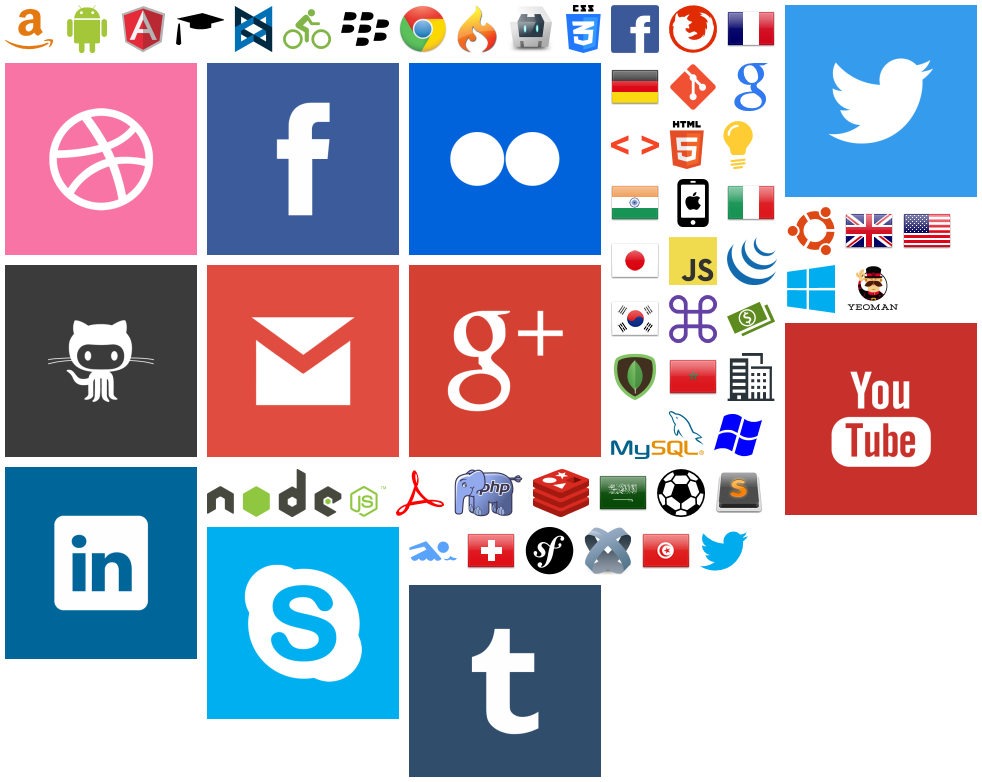
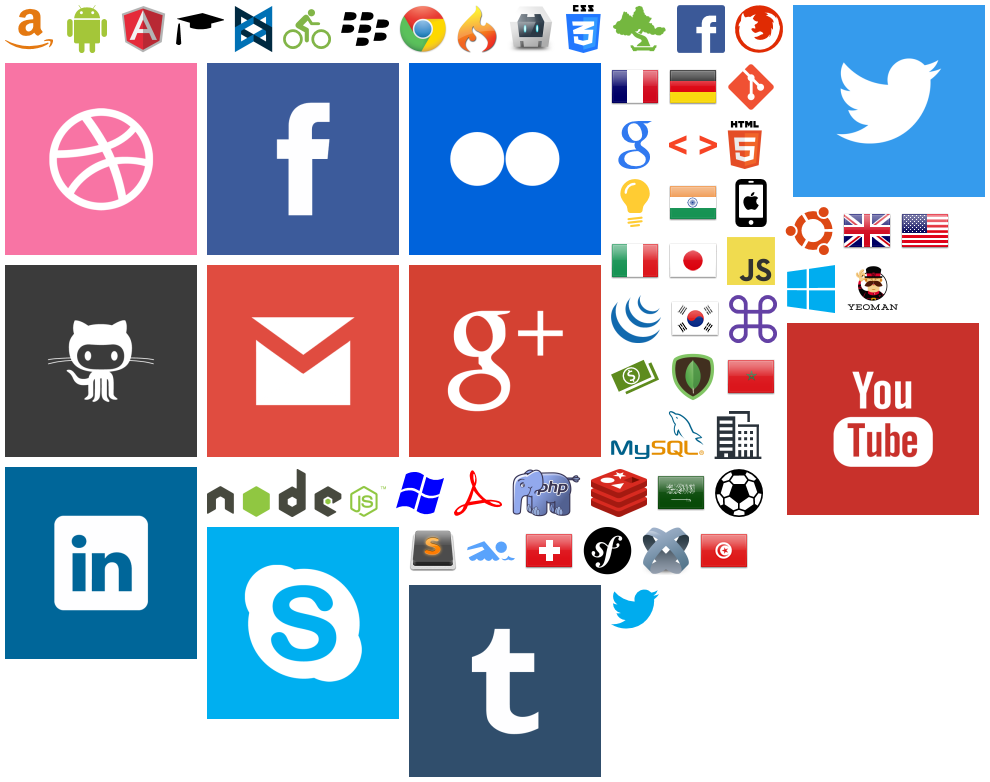
Add presentation of Open Data for politics

diff --git a/css/main.css b/css/main.css
@@ -44,6 +44,7 @@
 	background-repeat: no-repeat;
 }
 
+
 .icon.amazon {
 	width: 48px;
 	height: 48px;
@@ -116,10 +117,16 @@
 	background-position: -5px -63px;
 }
 
+.icon.elasticsearch {
+	width: 56px;
+	height: 48px;
+	background-position: -611px -5px;
+}
+
 .icon.facebook {
 	width: 48px;
 	height: 48px;
-	background-position: -611px -5px;
+	background-position: -677px -5px;
 }
 
 .icon.facebook-ntw {
@@ -131,7 +138,7 @@
 .icon.firefox {
 	width: 48px;
 	height: 48px;
-	background-position: -669px -5px;
+	background-position: -735px -5px;
 }
 
 .icon.flickr-ntw {
@@ -143,19 +150,19 @@
 .icon.france {
 	width: 48px;
 	height: 48px;
-	background-position: -727px -5px;
+	background-position: -611px -63px;
 }
 
 .icon.german {
 	width: 48px;
 	height: 48px;
-	background-position: -611px -63px;
+	background-position: -669px -63px;
 }
 
 .icon.git {
 	width: 48px;
 	height: 48px;
-	background-position: -669px -63px;
+	background-position: -727px -63px;
 }
 
 .icon.github-ntw {
@@ -173,7 +180,7 @@
 .icon.google {
 	width: 48px;
 	height: 48px;
-	background-position: -727px -63px;
+	background-position: -611px -121px;
 }
 
 .icon.google-plus-ntw {
@@ -185,61 +192,61 @@
 .icon.html {
 	width: 48px;
 	height: 48px;
-	background-position: -611px -121px;
+	background-position: -669px -121px;
 }
 
 .icon.html5 {
 	width: 35px;
 	height: 48px;
-	background-position: -669px -121px;
+	background-position: -727px -121px;
 }
 
 .icon.idea {
 	width: 48px;
 	height: 48px;
-	background-position: -714px -121px;
+	background-position: -611px -179px;
 }
 
 .icon.india {
 	width: 48px;
 	height: 48px;
-	background-position: -611px -179px;
+	background-position: -669px -179px;
 }
 
 .icon.iphone {
 	width: 48px;
 	height: 48px;
-	background-position: -669px -179px;
+	background-position: -727px -179px;
 }
 
 .icon.italy {
 	width: 48px;
 	height: 48px;
-	background-position: -727px -179px;
+	background-position: -611px -237px;
 }
 
 .icon.japan {
 	width: 48px;
 	height: 48px;
-	background-position: -611px -237px;
+	background-position: -669px -237px;
 }
 
 .icon.javascript {
 	width: 48px;
 	height: 48px;
-	background-position: -669px -237px;
+	background-position: -727px -237px;
 }
 
 .icon.jquery {
 	width: 50px;
 	height: 48px;
-	background-position: -727px -237px;
+	background-position: -611px -295px;
 }
 
 .icon.korea {
 	width: 48px;
 	height: 48px;
-	background-position: -611px -295px;
+	background-position: -671px -295px;
 }
 
 .icon.linkedin-ntw {
@@ -251,25 +258,25 @@
 .icon.mac-os {
 	width: 48px;
 	height: 48px;
-	background-position: -669px -295px;
+	background-position: -729px -295px;
 }
 
 .icon.money {
 	width: 48px;
 	height: 48px;
-	background-position: -727px -295px;
+	background-position: -611px -353px;
 }
 
 .icon.mongodb {
 	width: 48px;
 	height: 48px;
-	background-position: -611px -353px;
+	background-position: -669px -353px;
 }
 
 .icon.morocco {
 	width: 48px;
 	height: 48px;
-	background-position: -669px -353px;
+	background-position: -727px -353px;
 }
 
 .icon.mysql {
@@ -287,37 +294,37 @@
 .icon.office-place {
 	width: 48px;
 	height: 48px;
-	background-position: -727px -353px;
+	background-position: -714px -411px;
 }
 
 .icon.old-windows {
 	width: 48px;
 	height: 48px;
-	background-position: -714px -411px;
+	background-position: -396px -469px;
 }
 
 .icon.pdf {
 	width: 48px;
 	height: 48px;
-	background-position: -396px -469px;
+	background-position: -454px -469px;
 }
 
 .icon.php {
 	width: 69px;
 	height: 48px;
-	background-position: -454px -469px;
+	background-position: -512px -469px;
 }
 
 .icon.redis {
 	width: 56px;
 	height: 48px;
-	background-position: -533px -469px;
+	background-position: -591px -469px;
 }
 
 .icon.saudi-arabia {
 	width: 48px;
 	height: 48px;
-	background-position: -599px -469px;
+	background-position: -657px -469px;
 }
 
 .icon.skype-ntw {
@@ -329,37 +336,37 @@
 .icon.soccer {
 	width: 48px;
 	height: 48px;
-	background-position: -657px -469px;
+	background-position: -715px -469px;
 }
 
 .icon.sublime-text {
 	width: 48px;
 	height: 48px;
-	background-position: -715px -469px;
+	background-position: -409px -527px;
 }
 
 .icon.swimming {
 	width: 48px;
 	height: 48px;
-	background-position: -409px -527px;
+	background-position: -467px -527px;
 }
 
 .icon.swiss {
 	width: 48px;
 	height: 48px;
-	background-position: -467px -527px;
+	background-position: -525px -527px;
 }
 
 .icon.symfony {
 	width: 49px;
 	height: 48px;
-	background-position: -525px -527px;
+	background-position: -583px -527px;
 }
 
 .icon.titanium {
 	width: 48px;
 	height: 48px;
-	background-position: -584px -527px;
+	background-position: -642px -527px;
 }
 
 .icon.tumblr-ntw {
@@ -371,37 +378,37 @@
 .icon.tunisia {
 	width: 48px;
 	height: 48px;
-	background-position: -642px -527px;
+	background-position: -700px -527px;
 }
 
 .icon.twitter {
 	width: 48px;
 	height: 48px;
-	background-position: -700px -527px;
+	background-position: -611px -585px;
 }
 
 .icon.twitter-ntw {
 	width: 192px;
 	height: 192px;
-	background-position: -785px -5px;
+	background-position: -793px -5px;
 }
 
 .icon.ubuntu {
 	width: 48px;
 	height: 48px;
-	background-position: -787px -207px;
+	background-position: -785px -207px;
 }
 
 .icon.uk {
 	width: 48px;
 	height: 48px;
-	background-position: -845px -207px;
+	background-position: -843px -207px;
 }
 
 .icon.usa {
 	width: 48px;
 	height: 48px;
-	background-position: -903px -207px;
+	background-position: -901px -207px;
 }
 
 .icon.windows-8 {
@@ -419,7 +426,7 @@
 .icon.youtube-ntw {
 	width: 192px;
 	height: 192px;
-	background-position: -785px -323px;
+	background-position: -787px -323px;
 }
 
 body {

diff --git a/index.html b/index.html
@@ -234,12 +234,22 @@
 						<hr>
 					</div>
 					<div class="project">
-						<h3 class="title"><a href="http://fr.slideshare.net/yacinerezgui/angularjs-prsentation-french">Presentation</a> of AngularJS</span></h3>
+						<h3 class="title"><a href="http://slideshare.net/yacinerezgui/angularjs-prsentation-french">Presentation</a> of AngularJS</span></h3>
 						<p class="description">
 							Basics of AngularJS in French for the meetup JS Sophia
 						</p>
 						<p class="technologies">
 							<img src="t.png" class="icon angularjs" title="angularjs"> 
+						</p>
+						<hr>
+					</div>
+					<div class="project">
+						<h3 class="title"><a href="http://slideshare.net/yacinerezgui/open-data-23274800/">Presentation</a> of Open Data</span></h3>
+						<p class="description">
+							How the Open Data can improve politics in french
+						</p>
+						<p class="technologies">
+							<img src="t.png" class="icon france" title="france"> 
 						</p>
 						<hr>
 					</div>
